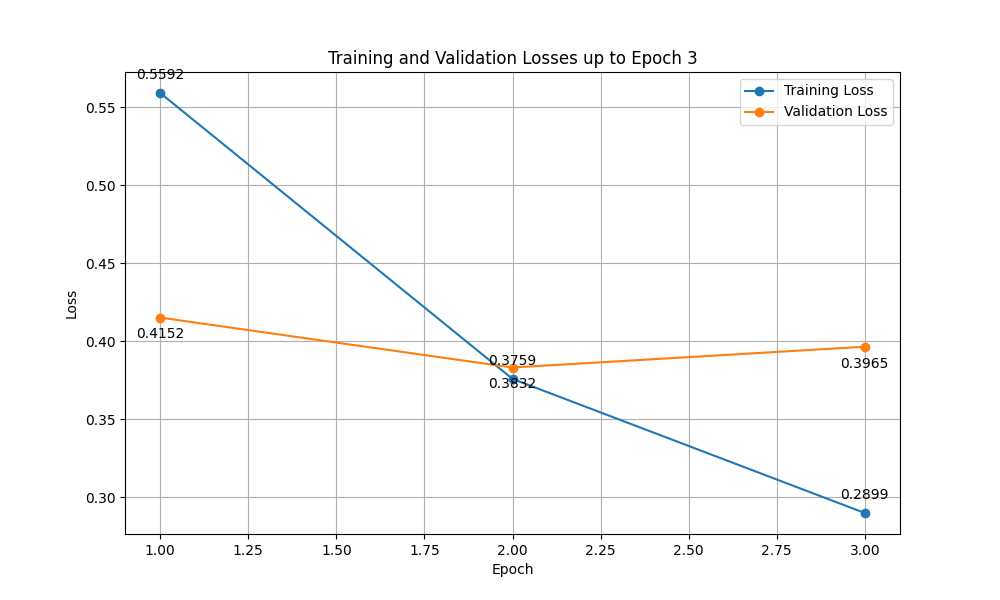
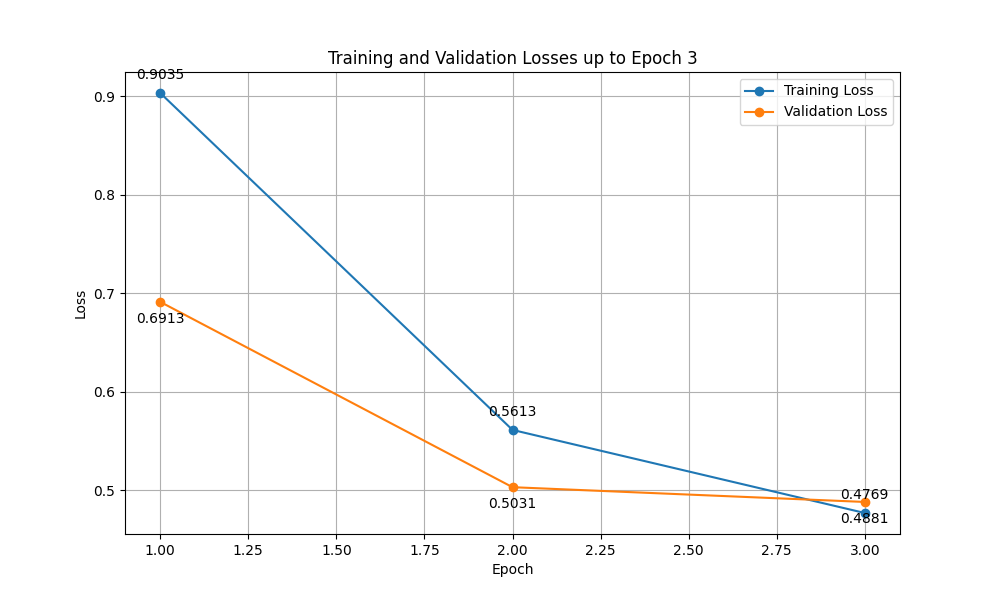
salam coucou cava

diff --git a/train.py b/train.py
@@ -27,8 +27,23 @@ class Trainer:
         self.device = device
         self.save_path = save_path
 
-        # Initialize optimizer and scheduler
-        self.optimizer = AdamW(self.model.parameters(), lr=self.learning_rate)
+        # First freeze all parameters
+        for param in self.model.parameters():
+            param.requires_grad = False
+
+        # Unfreeze the last 2 transformer blocks
+        for i in range(2):
+            for param in self.model.transformer.h[-(i + 1)].parameters():
+                param.requires_grad = True
+
+        # Unfreeze the language modeling head (important for generation)
+        for param in self.model.lm_head.parameters():
+            param.requires_grad = True
+
+        # Initialize optimizer only with unfrozen parameters
+        trainable_params = [p for p in self.model.parameters() if p.requires_grad]
+        self.optimizer = AdamW(trainable_params, lr=self.learning_rate)
+
         self.lr_scheduler = get_scheduler(
             "linear",
             optimizer=self.optimizer,
@@ -45,6 +60,13 @@ class Trainer:
 
         # Create plots directory
         os.makedirs("plots", exist_ok=True)
+
+        # Print number of trainable parameters
+        trainable_params = sum(p.numel() for p in self.model.parameters() if p.requires_grad)
+        total_params = sum(p.numel() for p in self.model.parameters())
+        print(f"Trainable parameters: {trainable_params:,} ({trainable_params / total_params:.2%} of total)")
+
+    # ... rest of the code remains the same ...
 
     def train(self):
         """Train the GPT-2 model."""

diff --git a/main.py b/main.py
@@ -52,6 +52,7 @@ def setup_dataloaders(tokenizer, batch_size=8):
 
 
 def main():
+    torch.cuda.empty_cache()
     # Training configurations
     config = {
         'model_name': "aubmindlab/aragpt2-base",
@@ -59,7 +60,9 @@ def main():
         'num_epochs': 3,
         'learning_rate': 5e-5,
         'save_path': "./models/gpt2_qa_model",
-        'device': "cuda" if torch.cuda.is_available() else "cpu"
+        'device': "cuda" if torch.cuda.is_available() else "cpu",
+        'unfreeze_last_n_layers': 0,  # 0 means all frozen, 1 means unfreeze last layer, etc.
+        'unfreeze_embeddings': False  # Whether to unfreeze the embedding layer
     }
 
     logger.info("Starting training process...")
